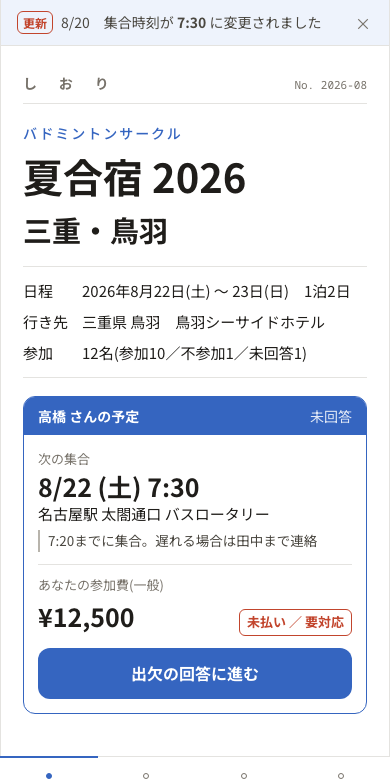
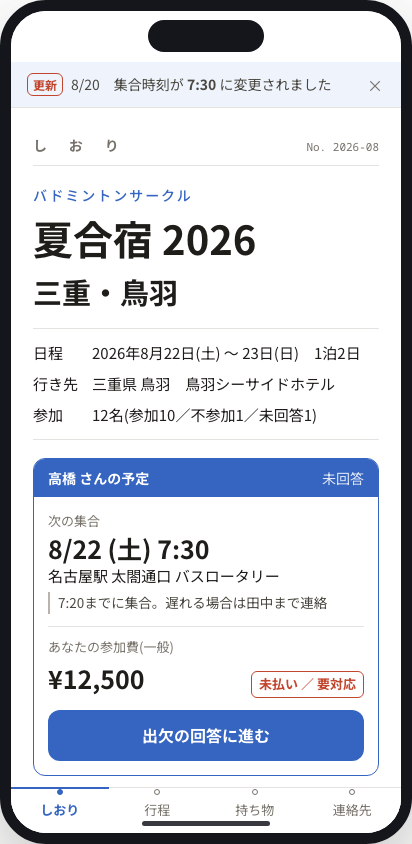
LPのスマホモックアップをPC表示と同じ実機風フレームに統一
- LP用スクリーンショット6枚を端末フレーム焼き込み(Dynamic Island・
  ホームインジケーター・角丸ベゼル、角は透過)で再生成
- .lp-phoneのCSSベゼル/box-shadowを撤去しdrop-shadowに置換(二重枠防止)
- モバイル幅でLPナビが1文字ずつ折り返す崩れを修正(600px以下は
  アンカーリンクを畳みCTAのみ表示)

diff --git a/src/styles/global.css b/src/styles/global.css
@@ -1220,6 +1220,7 @@ select.text-input {
   font-weight: 600;
   color: var(--ink);
   text-decoration: none;
+  white-space: nowrap;
 }
 .lp-nav .links {
   display: flex;
@@ -1230,6 +1231,16 @@ select.text-input {
 .lp-nav .links a {
   text-decoration: none;
   color: var(--sub);
+  white-space: nowrap;
+}
+@media (max-width: 600px) {
+  /* 狭い画面ではアンカーリンクを畳み、CTAだけ残す(1文字ずつの折返し防止) */
+  .lp-nav .links {
+    gap: 12px;
+  }
+  .lp-nav .links a:not(.cta) {
+    display: none;
+  }
 }
 .lp-nav .links a.cta {
   background: var(--accent);
@@ -1321,13 +1332,10 @@ select.text-input {
   align-items: flex-start;
 }
 .lp-phone {
+  /* 端末フレームは画像側に焼き込み済み(角丸は透過) */
   width: 235px;
-  border-radius: 30px;
-  border: 7px solid #14161c;
-  overflow: hidden;
-  background: #fff;
-  box-shadow: 0 30px 60px rgba(10, 16, 30, 0.45);
   flex-shrink: 0;
+  filter: drop-shadow(0 26px 44px rgba(10, 16, 30, 0.42));
 }
 .lp-phone img {
   width: 100%;
@@ -1422,7 +1430,7 @@ select.text-input {
 .lp-feature .lp-phone {
   width: 225px;
   margin: 0 auto;
-  box-shadow: 0 18px 44px rgba(31, 29, 26, 0.18);
+  filter: drop-shadow(0 16px 32px rgba(31, 29, 26, 0.22));
 }
 .lp-band {
   position: relative;
